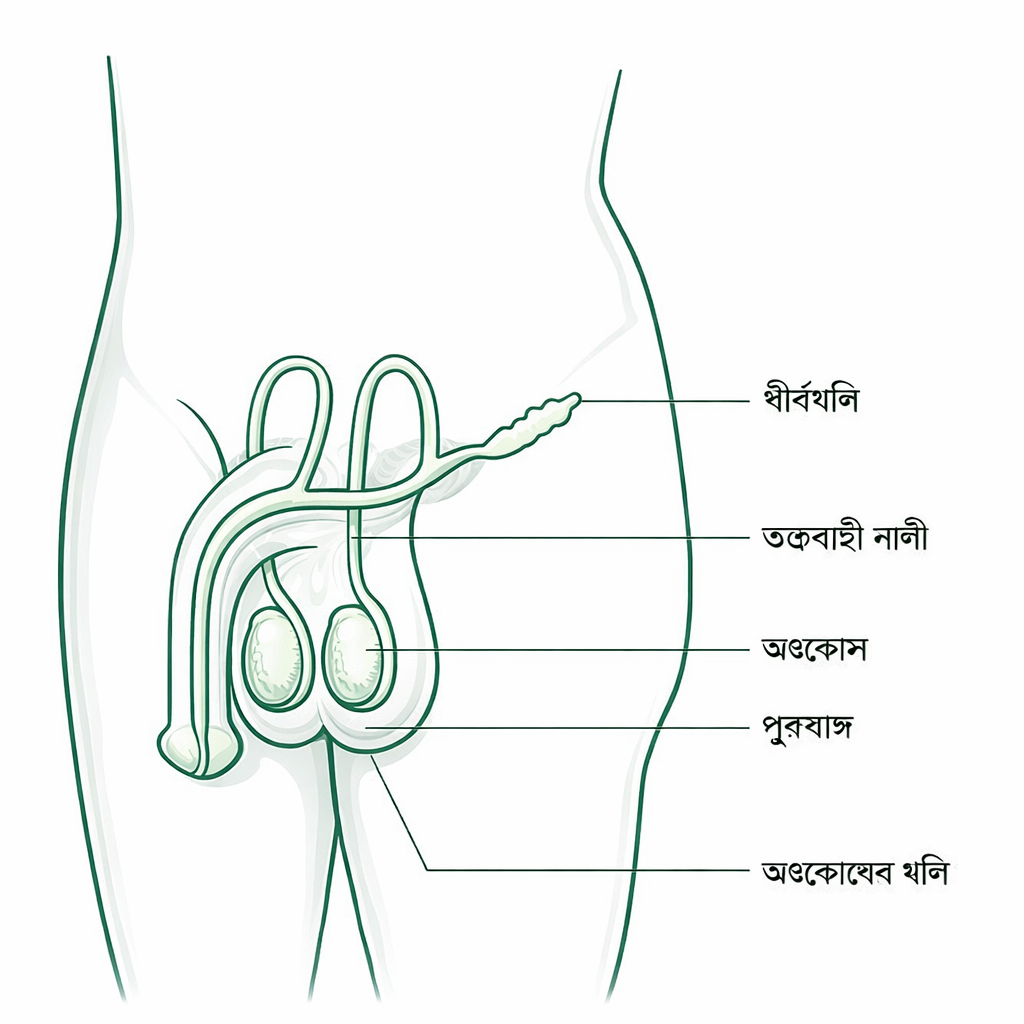
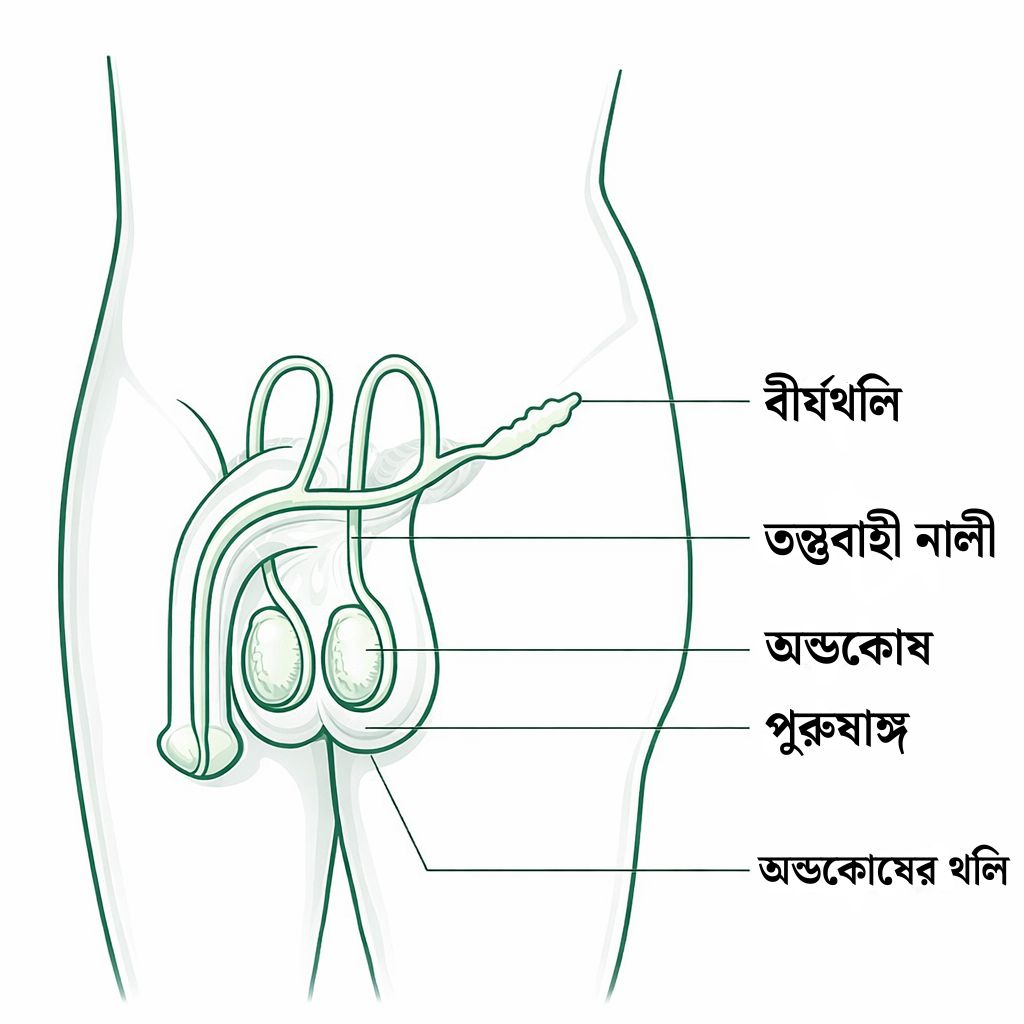
update new

diff --git a/dashboard.html b/dashboard.html
@@ -3200,19 +3200,16 @@
       justify-content: center;
     }
     .nocturnal-card {
-      width: 33.333%;
-      min-width: 0;
-      background: linear-gradient(160deg, #1E3A8A 0%, #1E40AF 55%, #1D4ED8 100%);
-      color: #fff;
-      border-radius: 16px;
-      box-shadow: 0 4px 14px rgba(30,58,138,0.18), 0 20px 40px rgba(30,58,138,0.22);
-      overflow: hidden;
-      display: flex;
-      flex-direction: column;
+    background: linear-gradient(160deg, #1E3A8A 0%, #1E40AF 55%, #1D4ED8 100%);
+    color: #fff;
+    border-radius: 16px;
+    box-shadow: 0 4px 14px rgba(30,58,138,0.18), 0 20px 40px rgba(30,58,138,0.22);
+    overflow: hidden;
+    display: grid;
+    grid-template-columns: 40% 60%;
     }
     .nocturnal-card__media {
       width: 100%;
-      aspect-ratio: 16 / 10;
       background: rgba(255,255,255,0.06);
       overflow: hidden;
     }
@@ -3227,7 +3224,7 @@
     }
     .nocturnal-card__body .organ-card__text {
       color: rgba(255,255,255,0.92);
-      font-size: 13px;
+      font-size: 18px;
       line-height: 1.75;
       margin: 0;
     }
@@ -8191,10 +8188,7 @@ function buildMaleReproSection() {
   return `
   <!-- ── MALE REPRODUCTIVE SYSTEM OVERVIEW ── -->
   <section class="organ-section organ-section--male" aria-label="Male reproductive system overview">
-    <h2 class="organ-section__heading">
-      <span class="bn">পুরুষ প্রজনন ব্যবস্থা</span>
-      <span class="en">Male Reproductive System</span>
-    </h2>
+    
     <div class="organ-grid">
 
       <article class="organ-card organ-card--penis">
